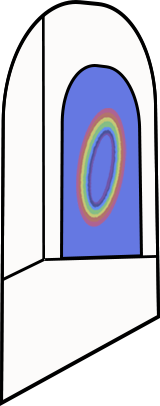
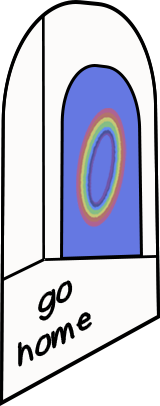
navigation

Changed region(s): [[0.0938, 0.6798, 0.5938, 0.9163]]

diff --git a/game-select.html b/game-select.html
@@ -120,6 +120,26 @@ html, body {
 .art-door   {left: 50vw; bottom: 21vh; width: 15vw}
 
 /* ─────────────────────────────────────────────────
+   SIDE NAV DOORS  z:4
+───────────────────────────────────────────────── */
+.side-door {
+  position: fixed;
+  cursor: pointer;
+  z-index: 4;
+}
+.side-door img {
+  display: block;
+  width: 100%;
+  height: auto;
+  filter: drop-shadow(3px 5px 8px rgba(0,0,0,0.2));
+  transition: filter 0.2s;
+}
+.side-door:hover img { filter: drop-shadow(4px 8px 16px rgba(0,0,0,0.35)); }
+
+.door-home    { left: 1vw;  bottom: 18vh; width: 10vw; }
+.door-explore { right: 1vw; bottom: 18vh; width: 10vw; }
+
+/* ─────────────────────────────────────────────────
    CHARACTER  z:4
 ───────────────────────────────────────────────── */
 @keyframes intro-wiggle {
@@ -302,6 +322,8 @@ html, body {
   .char-heart { left: 12vw; bottom: 15vh; width: clamp(80px, 28vw, 250px); }
   .thought-bubble { width: clamp(140px, 52vw, 280px); font-size: clamp(10px, 2.8vw, 15px); }
   .modal-window { width: 96vw; height: 88dvh; }
+  .door-home    { left: 0vw;  bottom: 12vh; width: 16vw; }
+  .door-explore { right: 0vw; bottom: 12vh; width: 16vw; }
 }
 
 </style>
@@ -347,6 +369,16 @@ html, body {
   <img src="assets/elements/dream-door.png" alt="Dreamworld door">
 </div>
 
+<!-- SIDE NAV DOORS  z:4 -->
+<div class="side-door door-home" id="door-home"
+     role="button" tabindex="0" aria-label="Go home">
+  <img src="assets/elements/go-home.png" alt="Go home door">
+</div>
+<div class="side-door door-explore" id="door-explore"
+     role="button" tabindex="0" aria-label="Keep exploring">
+  <img src="assets/elements/explore-door.png" alt="Keep exploring door">
+</div>
+
 <!-- HEART GUIDE  z:4 -->
 <div class="char-heart" id="char-heart">
   <div class="thought-bubble" id="heart-bubble"></div>
@@ -387,7 +419,9 @@ html, body {
     'art-map':    'you are not lost, you just need a map',
     'art-bingo':  'how are you really feeling?',
     'art-mirror': 'you contain multitudes',
-    'art-door': 'more coming soon'
+    'art-door':   'more coming soon',
+    'door-home':  'go back home',
+    'door-explore': 'there is more to discover'
   };
 
   function triggerWiggle(el) {
@@ -435,10 +469,20 @@ html, body {
   function openLetter()  { letterOverlay.classList.remove('hidden'); setTimeout(() => letterPaper.classList.add('unfolded'), 30); }
   function closeLetter() { letterPaper.classList.remove('unfolded'); setTimeout(() => letterOverlay.classList.add('hidden'), 400); }
 
-  doorRight.addEventListener('click', openLetter);
-  doorRight.addEventListener('keydown', e => { if (e.key === 'Enter' || e.key === ' ') openLetter(); });
+  const artDoor    = document.getElementById('art-door');
+  const doorHome   = document.getElementById('door-home');
+  const doorExplore = document.getElementById('door-explore');
+
+  artDoor.addEventListener('click', openLetter);
+  artDoor.addEventListener('keydown', e => { if (e.key === 'Enter' || e.key === ' ') openLetter(); });
   letterClose.addEventListener('click', closeLetter);
   letterOverlay.addEventListener('click', e => { if (e.target === letterOverlay) closeLetter(); });
+
+  doorHome.addEventListener('click', () => { window.location.href = 'index.html'; });
+  doorHome.addEventListener('keydown', e => { if (e.key === 'Enter' || e.key === ' ') window.location.href = 'index.html'; });
+
+  doorExplore.addEventListener('click', () => { window.location.href = 'explore.html'; });
+  doorExplore.addEventListener('keydown', e => { if (e.key === 'Enter' || e.key === ' ') window.location.href = 'explore.html'; });
 })();
 </script>
 
